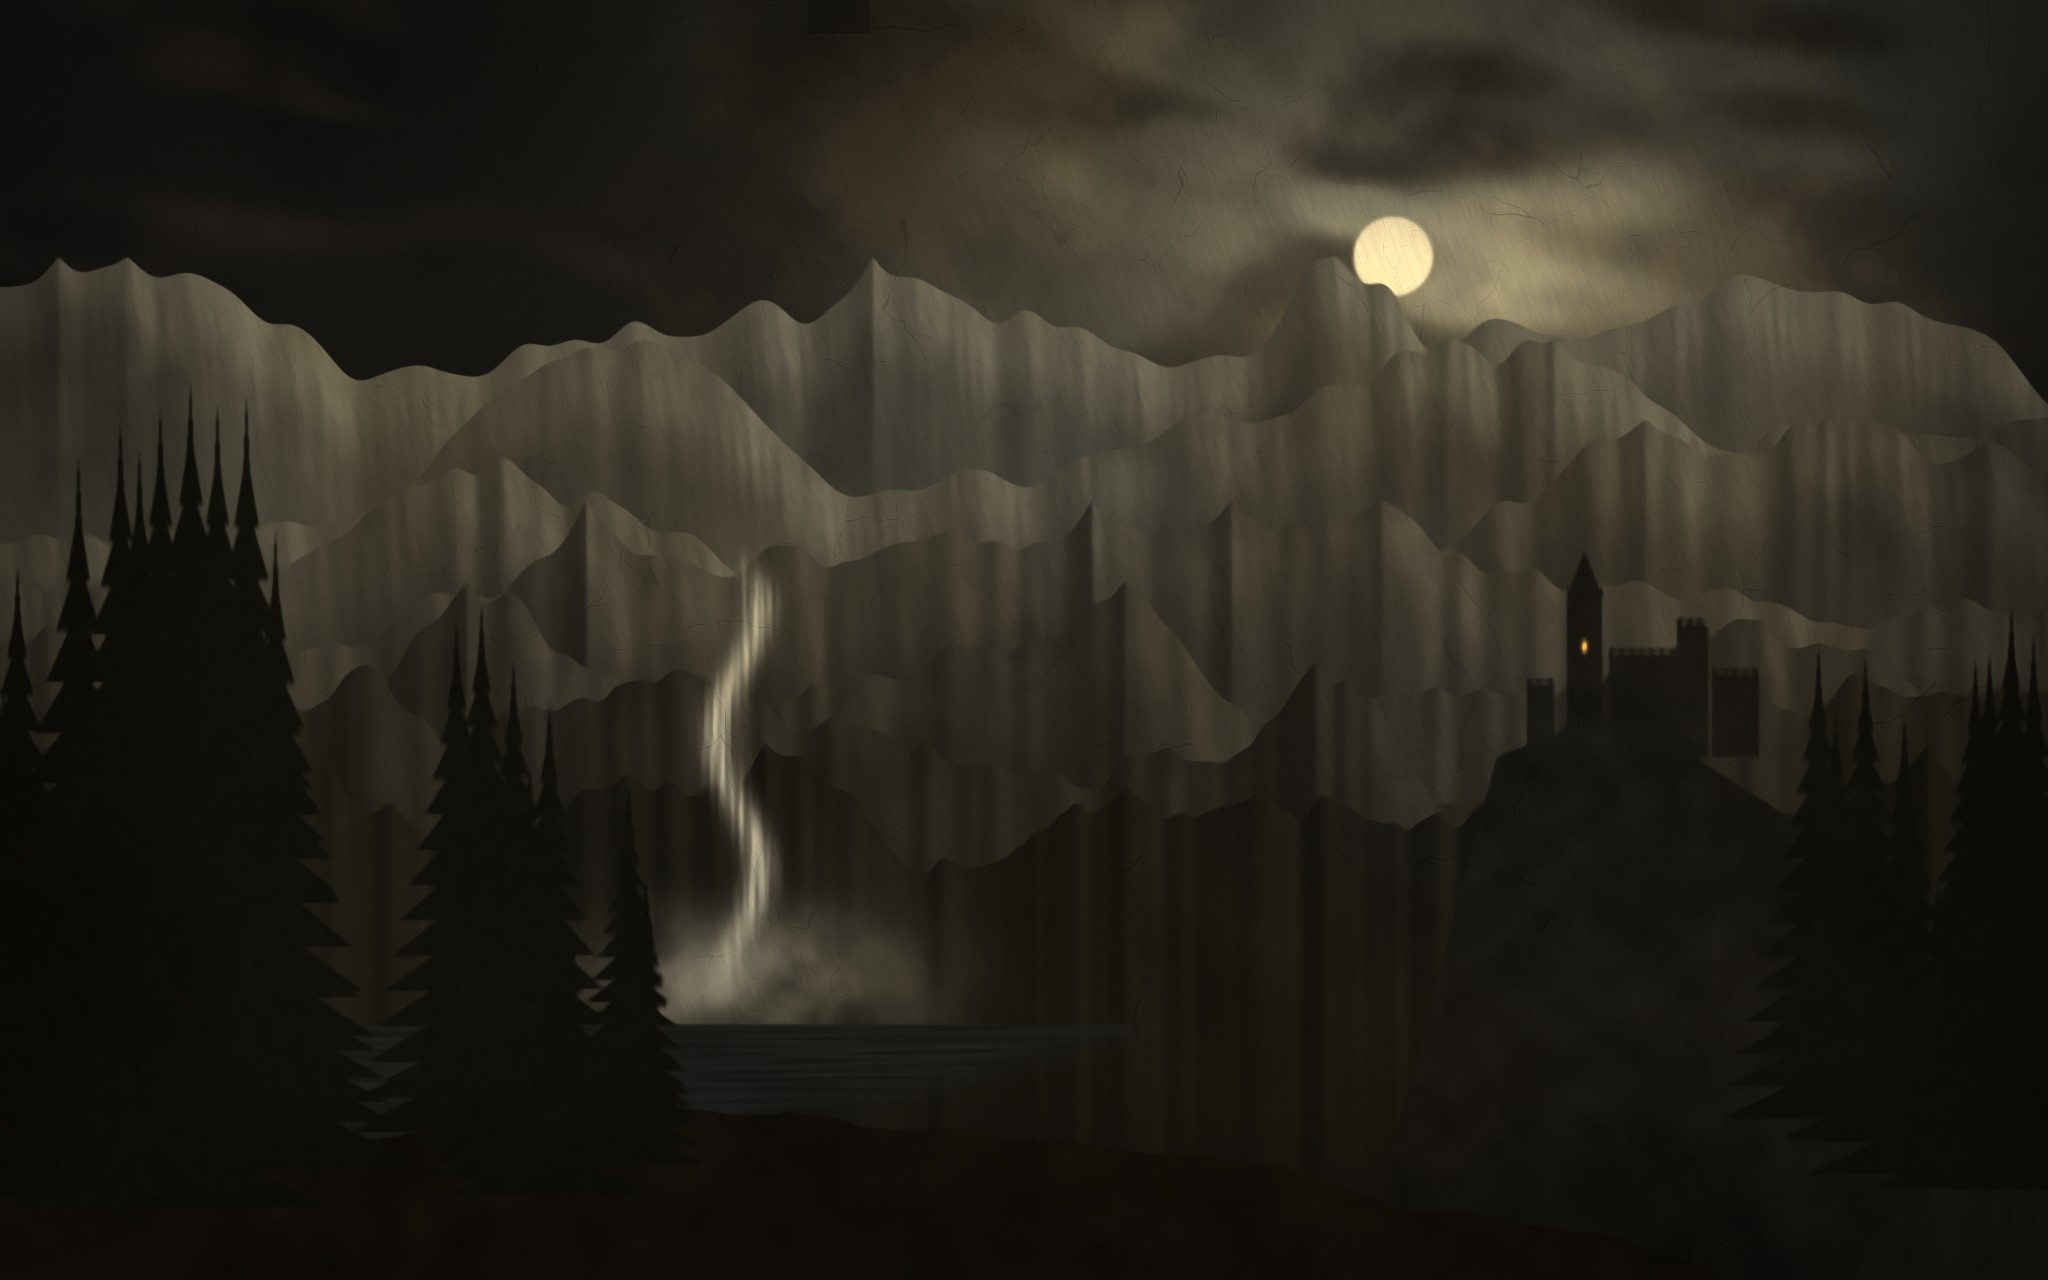
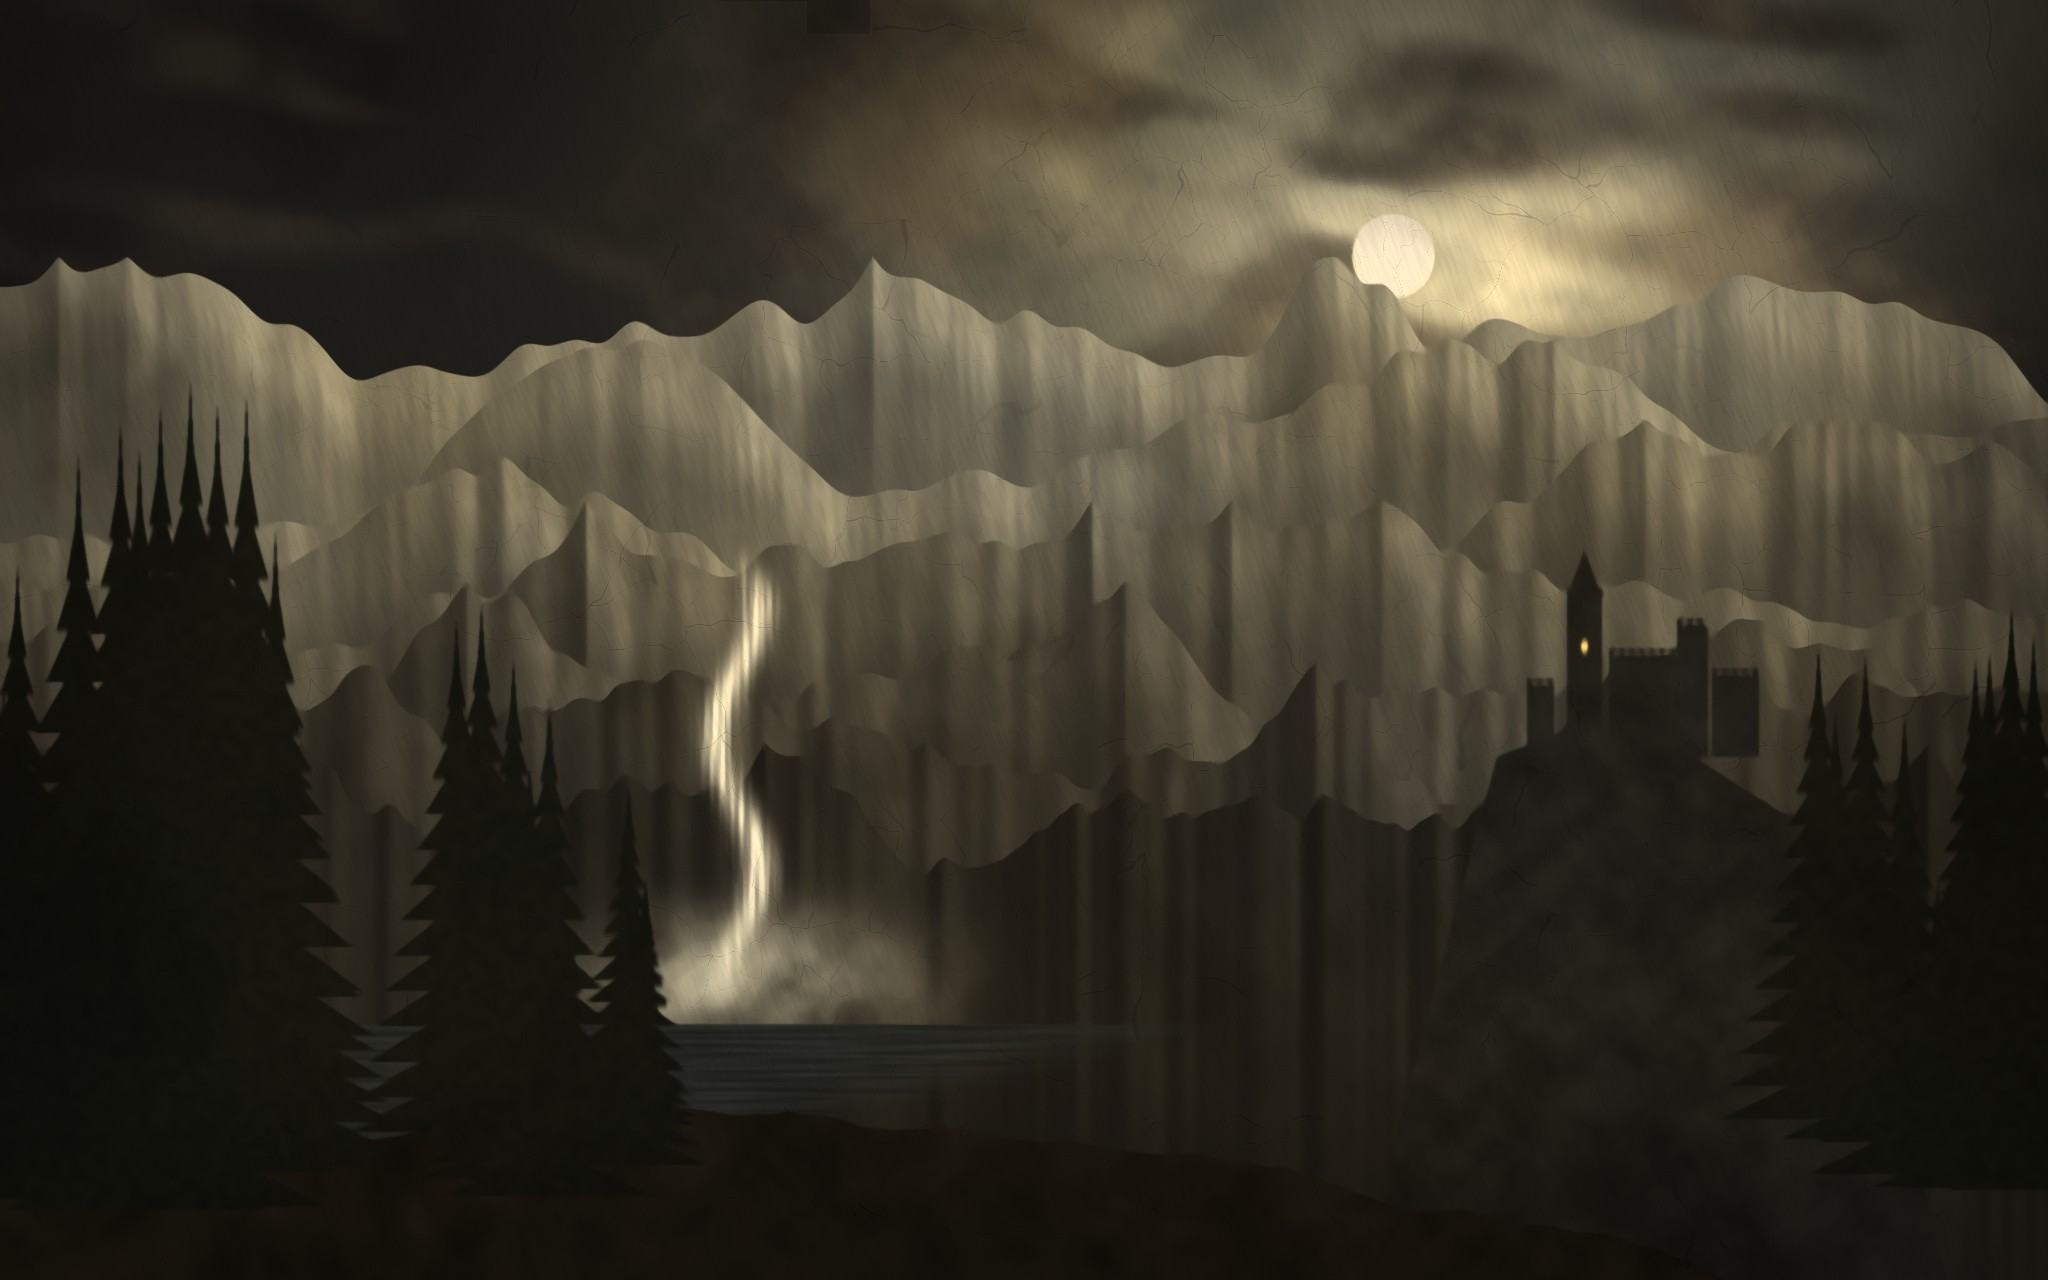
WIP dining

diff --git a/src/rooms/dining/index.js b/src/rooms/dining/index.js
@@ -2,7 +2,7 @@ import * as THREE from 'three';
 import { buildChair, webBackGeometry, buildTable, buildSideboard, buildCandelabrum, buildChandelier, buildPlaceSetting, plateGeometry, discUV, gobletGeometry, napkinGeometry, cutleryGeometries } from './furniture.js';
 import { nightGardenTexture, ganacheTexture, spongeTexture, chinaTexture, ceilingFieldTexture, tuftedTexture, flameMahoganyTexture, giltPlateTexture, tombTexture, laceTexture, frostTexture } from './textures.js';
 import { buildCurtain, buildSwagValance, buildTassel } from './drapery.js';
-import { treeLayerTexture, frostPaneTexture } from './textures.js';
+import { treeLayerTexture, frostPaneTexture, foxingTexture } from './textures.js';
 import { createCakePuzzle, cakeMeta, CAKE_ID } from './puzzleCake.js';
 import { mergeStatic } from './merge.js';
 
@@ -79,7 +79,7 @@ export default {
       frieze: M.create('gilded', { pattern: 2, repeats: 3, ground: 1, groundColor: [0.03, 0.04, 0.1], wear: 0.35, dirt: 0.5, repeat: [1 / 1.15, 1] }),
       gilt: M.create('gold', { wear: 0.45, dirt: 0.5, repeat: [2, 1] }),
       frame: M.create('gilded', { pattern: 1, repeats: 3, wear: 0.45, dirt: 0.65, repeat: [1 / 0.45, 1] }),
-      drape: M.create('velvet', { color: [0.05, 0.1, 0.36], crush: 0.45, repeat: [2.2, 2.2], side: THREE.DoubleSide, sheen: 1.0, sheenColor: [0.35, 0.5, 0.9], sheenRoughness: 0.5, roughness: 0.85 }),
+      drape: M.create('velvet', { color: [0.05, 0.1, 0.36], crush: 0.45, repeat: [2.2, 2.2], side: THREE.DoubleSide, sheen: 1.0, sheenColor: [0.35, 0.5, 0.9], sheenRoughness: 0.5, roughness: 0.85, normalScale: 0.25 }),
       seat: M.create('velvet', { color: [0.1, 0.19, 0.3], crush: 0.4, pattern: 1, repeat: [4, 4], sheenColor: [0.3, 0.45, 0.6] }),
       brass: M.create('brass', { tarnish: 0.3, polish: 0.75, repeat: [3, 3] }),
       glass: M.create('glass', { dirt: 0.55, transparent: true, opacity: 0.12 }),
@@ -93,7 +93,7 @@ export default {
       black: M.basic('black', { color: 0x0a0806 }),
       wine: new THREE.MeshPhysicalMaterial({ color: 0x3a0308, roughness: 0.12, transmission: 0, clearcoat: 1, clearcoatRoughness: 0.12, name: 'wine' }),
     };
-    mat.rosePlaster = M.create('plaster', { color: [0.42, 0.44, 0.5], cracks: 0.2, stains: 0.5, roughness: 0.9, repeat: [3, 3] });
+    mat.rosePlaster = M.create('plaster', { color: [0.22, 0.24, 0.3], cracks: 0.2, stains: 0.5, roughness: 0.9, repeat: [3, 3] });
     mat.tassel = M.create('velvet', { color: [0.5, 0.36, 0.16], crush: 0.2, repeat: [6, 6], sheen: 1, sheenColor: [0.9, 0.7, 0.35] });
     mat.giltDark = M.create('gold', { wear: 0.6, dirt: 0.8, repeat: [2, 1], color: [0.45, 0.4, 0.36] });
     mat.standSilver = M.basic('silver', { roughness: 0.32, envMapIntensity: 0.55, color: 0x9a9a9e });
@@ -316,8 +316,8 @@ export default {
       card.position.set(wx + 0.4, WIN.sill + 1.0, -7.5); s.grp.add(card);
       const trees = treeLayerTexture(ctx.textures);
       const treeMat = new THREE.MeshBasicMaterial({ map: trees.map, color: new THREE.Color(0.55, 0.62, 0.85), alphaTest: 0.5, toneMapped: false, name: 'treesMid', side: THREE.DoubleSide });
-      const tl = new THREE.Mesh(new THREE.PlaneGeometry(5.2, 3.6), treeMat);
-      tl.position.set(wx - 0.3, 1.4, -3.4); tl.userData.noShadow = true; s.grp.add(tl);
+      const tl = new THREE.Mesh(new THREE.PlaneGeometry(5.6, 3.9), treeMat);
+      tl.position.set(wx - 0.6, 1.1, -5.6); tl.userData.noShadow = true; s.grp.add(tl);
       const snowMat = new THREE.MeshStandardMaterial({ color: 0x8c96b0, roughness: 0.9, metalness: 0, emissive: new THREE.Color(0.1, 0.13, 0.22), name: 'snow' });
       const snowG = new THREE.PlaneGeometry(10, 8, 20, 16);
       { const pp = snowG.attributes.position; for (let i = 0; i < pp.count; i++) pp.setZ(i, 0.12 * Math.sin(pp.getX(i) * 1.3) * Math.cos(pp.getY(i) * 0.9)); snowG.computeVertexNormals(); }
@@ -442,14 +442,26 @@ export default {
         for (const [y, hh] of rows) { const p = new THREE.Mesh(G.raisedPanel(w - 0.16, hh, { border: 0.05, bevel: 0.025 }), mat.panel); p.position.set(0, y, 0.025); g.add(p); }
         return g;
       };
+      // brass knob on a rose, with a keyhole escutcheon below
+      const knobG = G.latheFromProfile([[0, 0], [0.012, 0], [0.01, 0.025], [0.022, 0.04], [0.028, 0.055], [0.022, 0.068], [0, 0.072]], 20).rotateX(Math.PI / 2);
+      const roseG = G.latheFromProfile([[0, 0], [0.032, 0], [0.034, 0.004], [0.026, 0.01], [0.012, 0.012], [0, 0.012]], 24).rotateX(Math.PI / 2);
+      const escG = (() => { const sh = new THREE.Shape(); sh.moveTo(-0.018, -0.045); sh.quadraticCurveTo(0, -0.06, 0.018, -0.045); sh.lineTo(0.018, 0.035); sh.quadraticCurveTo(0, 0.055, -0.018, 0.035); sh.lineTo(-0.018, -0.045);
+        const kh = new THREE.Path(); kh.absarc(0, 0.008, 0.0055, 0, Math.PI * 2, false); sh.holes.push(kh);
+        const kh2 = new THREE.Path(); kh2.moveTo(-0.0025, 0.004); kh2.lineTo(-0.004, -0.018); kh2.lineTo(0.004, -0.018); kh2.lineTo(0.0025, 0.004); sh.holes.push(kh2);
+        return new THREE.ExtrudeGeometry(sh, { depth: 0.003, bevelEnabled: true, bevelThickness: 0.0015, bevelSize: 0.0015, bevelSegments: 2 }); })();
+      const hardware = (g, x, y) => {
+        const r = new THREE.Mesh(roseG, mat.brass); r.position.set(x, y, 0.025); g.add(r);
+        const k = new THREE.Mesh(knobG, mat.brass); k.position.set(x, y, 0.035); g.add(k);
+        const e = new THREE.Mesh(escG, mat.brass); e.position.set(x, y - 0.13, 0.026); g.add(e);
+      };
       for (const [key, d] of Object.entries(DOORS)) {
         const g = new THREE.Group();
         g.position.set(lx.front(d.x), 0, -0.04);
         if (key === 'foyer') {
-          for (const sd of [-1, 1]) { const l = leaf(d.w / 2 - 0.01, d.h - 0.01); l.position.x = sd * d.w / 4; g.add(l); const k = new THREE.Mesh(new THREE.SphereGeometry(0.03, 16, 12), mat.brass); k.position.set(sd * 0.07, 1.02, 0.06); g.add(k); }
+          for (const sd of [-1, 1]) { const l = leaf(d.w / 2 - 0.01, d.h - 0.01); l.position.x = sd * d.w / 4; g.add(l); hardware(g, sd * 0.07, 1.02); }
         } else {
           g.add(leaf(d.w - 0.02, d.h - 0.01));
-          const k = new THREE.Mesh(new THREE.SphereGeometry(0.028, 16, 12), mat.brass); k.position.set(d.w / 2 - 0.1, 1.0, 0.06); g.add(k);
+          hardware(g, d.w / 2 - 0.1, 1.0);
         }
         const cas = new THREE.Mesh(G.sweepProfile(G.PROFILES.chairRail(0.12, 0.035), [V3(-d.w / 2 - 0.06, 0, 0), V3(-d.w / 2 - 0.06, d.h + 0.06, 0), V3(d.w / 2 + 0.06, d.h + 0.06, 0), V3(d.w / 2 + 0.06, 0, 0)], { up: V3(0, 0, 1), uvScale: 1, flipOutward: true }), mat.panel);
         cas.position.z = 0.04; g.add(cas);
@@ -468,10 +480,22 @@ export default {
       const s = S.front;
       const sconce = (x) => {
         const g = new THREE.Group();
-        g.add(new THREE.Mesh(G.latheFromProfile([[0, 0], [0.07, 0], [0.06, 0.02], [0.02, 0.035], [0, 0.04]], 20).rotateX(Math.PI / 2), mat.brass));
-        const arm = new THREE.Mesh(new THREE.TubeGeometry(new THREE.CatmullRomCurve3([V3(0, 0, 0.03), V3(0, -0.06, 0.12), V3(0, 0.0, 0.2), V3(0, 0.06, 0.2)]), 12, 0.009, 6), mat.brass); g.add(arm);
-        const cup = new THREE.Mesh(G.latheFromProfile([[0, 0], [0.03, 0], [0.04, 0.02], [0.02, 0.03], [0, 0.03]], 14), mat.brass); cup.position.set(0, 0.06, 0.2); g.add(cup);
-        const shade = new THREE.Mesh(G.latheFromProfile([[0.025, 0], [0.06, 0.04], [0.075, 0.1], [0.06, 0.16], [0.035, 0.18]], 20), mat.globe); shade.position.set(0, 0.09, 0.2); g.add(shade);
+        // oval brass backplate with a cast scroll crest and a drop below
+        const bp = G.latheFromProfile([[0, 0], [0.06, 0], [0.065, 0.006], [0.055, 0.014], [0.03, 0.02], [0, 0.022]], 28).rotateX(Math.PI / 2); bp.scale(0.75, 1.5, 1);
+        g.add(new THREE.Mesh(bp, mat.brass));
+        for (const sx of [-1, 1]) { const sc = new THREE.Mesh(new THREE.TorusGeometry(0.022, 0.005, 6, 14, Math.PI * 1.4), mat.brass); sc.position.set(sx * 0.022, 0.1, 0.012); sc.rotation.z = sx > 0 ? -0.4 : Math.PI + 0.4 - Math.PI * 0.4; g.add(sc); }
+        const drop = new THREE.Mesh(G.latheFromProfile([[0, 0], [0.014, -0.01], [0.009, -0.03], [0.012, -0.045], [0, -0.06]], 12), mat.brass); drop.position.set(0, -0.09, 0.012); g.add(drop);
+        // S-curved gas arm with a leaf collar and the burner cup
+        const arm = new THREE.Mesh(new THREE.TubeGeometry(new THREE.CatmullRomCurve3([V3(0, 0, 0.02), V3(0, -0.05, 0.1), V3(0, -0.01, 0.18), V3(0, 0.05, 0.2)]), 16, 0.009, 8), mat.brass); g.add(arm);
+        const col = new THREE.Mesh(G.latheFromProfile([[0, -0.01], [0.016, -0.01], [0.02, 0.0], [0.014, 0.01], [0, 0.012]], 12).rotateX(Math.PI / 2 - 0.6), mat.brass); col.position.set(0, -0.035, 0.08); g.add(col);
+        const cup = new THREE.Mesh(G.latheFromProfile([[0, 0], [0.018, 0], [0.034, 0.012], [0.038, 0.022], [0.03, 0.028], [0, 0.028]], 16), mat.brass); cup.position.set(0, 0.05, 0.2); g.add(cup);
+        // frosted tulip shade, open at the top with a crimped lip
+        const tulip = G.latheFromProfile([[0.022, 0], [0.03, 0.012], [0.048, 0.04], [0.058, 0.08], [0.062, 0.12], [0.07, 0.15], [0.078, 0.158]], 28);
+        const tp = tulip.attributes.position;
+        for (let i = 0; i < tp.count; i++) { const y = tp.getY(i); if (y > 0.13) { const a = Math.atan2(tp.getZ(i), tp.getX(i)); const k = 1 + 0.08 * Math.sin(a * 8) * (y - 0.13) / 0.03; tp.setX(i, tp.getX(i) * k); tp.setZ(i, tp.getZ(i) * k); } }
+        tulip.computeVertexNormals();
+        const shade = new THREE.Mesh(tulip, mat.globe); shade.position.set(0, 0.075, 0.2); g.add(shade);
+        const fl = fx.flame({ height: 0.035, width: 0.01, intensity: 3 }); fl.position.set(0, 0.085, 0.2); fl.userData.keep = true; g.add(fl);
         g.position.set(lx.front(x), 1.95, 0.0); s.grp.add(g);
         const wp = new THREE.Vector3(x, 2.15, Z1 - 0.25);
         const l = new THREE.PointLight(0xffa860, 2.2, 6, 2); l.position.copy(wp); root.add(l); sconceLights.push(l);
@@ -479,8 +503,23 @@ export default {
       sconce(-1.12); sconce(1.12);
       const mg = new THREE.Group();
       const mw = 0.9, mh = 1.5;
-      const glassM = new THREE.MeshPhysicalMaterial({ color: 0x9aa0a8, metalness: 1, roughness: 0.08, envMapIntensity: 1.0, name: 'mirror' });
-      mg.add(new THREE.Mesh(new THREE.PlaneGeometry(mw, mh), glassM));
+      const glassM = new THREE.MeshPhysicalMaterial({ color: 0x8a9098, metalness: 1, roughness: 0.04, envMapIntensity: 1.0, name: 'mirror' });
+      const mirror = new THREE.Mesh(new THREE.PlaneGeometry(mw, mh), glassM); mirror.userData.keep = true; mirror.userData.noBake = true;
+      mg.add(mirror);
+      const fox = foxingTexture(ctx.textures);
+      const foxM = new THREE.MeshStandardMaterial({ map: fox.map, transparent: true, depthWrite: false, roughness: 0.9, metalness: 0, name: 'foxing' });
+      const fp = new THREE.Mesh(new THREE.PlaneGeometry(mw, mh), foxM); fp.position.z = 0.002; fp.userData.noBake = true; fp.userData.noShadow = true; mg.add(fp);
+      // one-off cube capture of the room from the mirror (after the room is in the scene)
+      const cubeRT = new THREE.WebGLCubeRenderTarget(256, { type: THREE.HalfFloatType });
+      const cubeCam = new THREE.CubeCamera(0.05, 20, cubeRT);
+      let mirrorFrames = 0;
+      ctx.onUpdate(() => {
+        if (mirrorFrames++ !== 2) return;
+        mirror.getWorldPosition(cubeCam.position); cubeCam.position.z -= 0.6;
+        mirror.visible = false; fp.visible = false;
+        try { cubeCam.update(ctx.renderer, ctx.scene); glassM.envMap = cubeRT.texture; glassM.envMapIntensity = 0.9; glassM.needsUpdate = true; } catch (e) { console.warn(e); }
+        mirror.visible = true; fp.visible = true;
+      });
       mg.add(new THREE.Mesh(G.frameGeometry(mw, mh, { width: 0.12, depth: 0.07, uvScale: 1 }), mat.frame));
       const crest = new THREE.Mesh(new THREE.SphereGeometry(0.1, 14, 10), mat.gilt); crest.scale.set(2.2, 0.9, 0.35); crest.position.set(0, mh / 2 + 0.14, 0.04); mg.add(crest);
       mg.position.set(lx.front(-2.0), 1.95, 0.035); s.grp.add(mg);
@@ -640,7 +679,7 @@ export default {
     // volumetric moon beam + dust + low mist
     const winCenter = V3(0, WIN.sill + WIN.h / 2, Z0 - 0.05);
     const beamDir = new THREE.Vector3().subVectors(moonTarget, moonPos).normalize();
-    const shaft = fx.shaft({ center: winCenter, right: V3(WIN.w / 2, 0, 0), up: V3(0, WIN.h / 2, 0), direction: beamDir, length: 5.2, color: 0x9fb6ff, intensity: 0.38, softness: 0.3, falloff: 1.0, panes: [2, 4], mullion: 0.03, noise: 0.7 });
+    const shaft = fx.shaft({ center: winCenter, right: V3(WIN.w / 2, 0, 0), up: V3(0, WIN.h / 2, 0), direction: beamDir, length: 5.2, color: 0x9fb6ff, intensity: 0.32, softness: 0.3, falloff: 1.0, panes: [2, 4], mullion: 0.03, noise: 0.35 });
     root.add(shaft);
     root.add(fx.dust({ box: new THREE.Box3(V3(-1.5, 0.15, Z0 + 0.2), V3(0.7, 2.6, 0.6)), count: 520, shafts: [shaft], size: 0.009, intensity: 2.0, ambient: 0.0 }));
     root.add(fx.fog({ box: new THREE.Box3(V3(X0 + 0.1, 0, Z0 + 0.1), V3(X1 - 0.1, 0.5, Z1 - 0.3)), color: 0x0b111e, litColor: 0x33425f, density: 0.45, heightFalloff: 4 }));

diff --git a/src/rooms/dining/textures.js b/src/rooms/dining/textures.js
@@ -494,3 +494,22 @@ void surface(vec2 uv, inout Surface s) {
 }`,
   });
 }
+
+/** Mirror foxing: silvering loss and brown spots, denser toward the edges (alpha overlay). */
+export function foxingTexture(forge) {
+  return forge.generate('dining:foxing', {
+    size: 512, aspect: 0.6, tile: false,
+    glsl: /* glsl */ `
+void surface(vec2 uv, inout Surface s) {
+  vec2 e = min(uv, 1.0 - uv);
+  float edge = smoothstep(0.18, 0.0, min(e.x * 1.6, e.y));
+  float n = fbm(uv * vec2(5.0, 8.0), vec2(5.0, 8.0), 5) * 0.5 + 0.5;
+  vec4 v = voronoi(uv * vec2(14.0, 22.0), vec2(14.0, 22.0), 1.0);
+  float spot = smoothstep(0.16, 0.05, v.x) * step(0.72, hash12(v.zw + 3.0));
+  float a = clamp(edge * (0.4 + 0.8 * n) + spot * 0.7, 0.0, 0.9);
+  s.albedo = mix(vec3(0.16, 0.12, 0.08), vec3(0.3, 0.26, 0.2), n);
+  s.alpha = a;
+  s.height = 0.5; s.rough = 0.9; s.metal = 0.0; s.ao = 1.0;
+}`,
+  });
+}

diff --git a/src/rooms/dining/tools/paintings.py b/src/rooms/dining/tools/paintings.py
@@ -496,8 +496,8 @@ def storm(W=2048, H=1280, seed=303, name='storm'):
         d.rectangle([px - 3, base - h * 0.1, px + 3, base + 10], fill=255)
     pm = blur(np.asarray(pines, np.float32) / 255, 1.0)
     img = lerp(img, col(10, 12, 11) * (0.8 + 0.4 * noise(H, W, 10, seed + 91))[..., None], pm)
-    # overall glaze
-    img = img * np.array([0.98, 0.98, 0.96], np.float32)
+    # overall glaze (lifted so the scene reads under candlelight)
+    img = np.clip(img * np.array([1.5, 1.48, 1.42], np.float32), 0, 1)
     img, bump = age_canvas(img, seed, crack_cell=80, varnish=1.0, grime=0.9, smear=5, kuw=1)
     save(name, img, bump)
 
